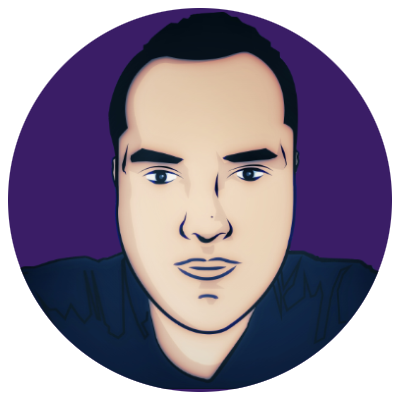
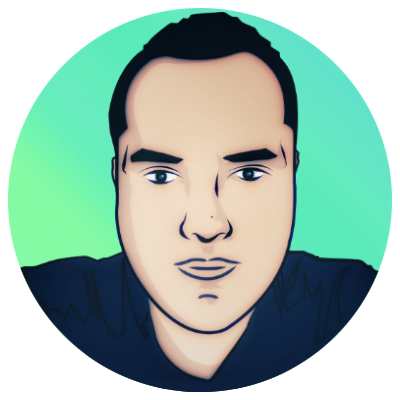
Updated styles

diff --git a/index.html b/index.html
@@ -1,1 +1,1 @@
-<!DOCTYPE html><html lang="en"><head> <meta charset="utf-8"/> <meta name="viewport" content="width=device-width, initial-scale=1"> <meta name="description" content="Scotty Rodríguez - Landing Page"> <meta name="author" content="Scotty Rodríguez"> <title>Scotty Rodríguez</title> <link rel="stylesheet" href="dependencies/fontawesome-free/5.8.1/css/all.min.css"> <link rel="stylesheet" href="dependencies/bootstrap/4.3.1/css/bootstrap.min.css"> <link rel="stylesheet" href="assets/styles/main.css"> <link rel="apple-touch-icon" sizes="180x180" href="favicon_io/apple-touch-icon.png"> <link rel="icon" type="image/png" sizes="32x32" href="favicon_io/favicon-32x32.png"> <link rel="icon" type="image/png" sizes="16x16" href="favicon_io/favicon-16x16.png"> <link rel="manifest" href="favicon_io/site.webmanifest"></head><body> <nav class="navbar navbar-expand-lg navbar-light"> <button class="navbar-toggler" type="button" data-toggle="collapse" data-target="#titleNavbar" aria-controls="titleNavbar" aria-expanded="false" aria-label="Toggle navigation"> <span class="navbar-toggler-icon"></span> </button> <div class="collapse navbar-collapse justify-content-md-center" id="titleNavbar"> <div class="navbar-header"> <a class="navbar-brand" href="#">Scotty Rodríguez</a></div><ul class="navbar-nav"> <li class="nav-item"> <a class="nav-link" href="https://www.linkedin.com/in/scottyrodriguez" rel="noopener" target="_blank"> <i class="fab fa-linkedin icon"></i> </a> </li><li class="nav-item"> <a class="nav-link" href="https://www.instagram.com/scotty_rod/" rel="noopener" target="_blank"> <i class="fab fa-instagram icon"></i> </a> </li><li class="nav-item"> <a class="nav-link" href="mailto:scottyru@gmail.com"> <i class="fas fa-at icon"></i> </a> </li><li class="nav-item"> <a class="nav-link" href="assets/files/Scotty Alexander_Rodríguez Umaña_CV_June_2019.PDF" rel="noopener" target="_blank"> <i>Download CV</i> </a> </li></ul> </div></nav> <hr> <div class="container-fluid intro-background"> <div class="row"> <div class="container"><img class="avatar" src="assets/imgs/avatar.png" alt="avatar"></div></div><div class="container"></div><div class="mx-auto intro"> <h1>Hello!</h1> <div class="container"> <h2> I'm Scotty! A Software Engineer based in Costa Rica with over 5 years of experience in .NET backend technologies and some light frontend work. Currently part of the data services team at PayByPhone.</h2></div></div></div><hr> <div class="mx-auto"> <div class="container pull-left"> <div class="row"> <div class="col-md-6"> <i class="fas fa-user-circle icon-body icon-margins"></i> <h4>about</h4> <p> Born in Costa Rica. <img src="assets/imgs/costa_rica_flag.png" alt=""> <br>Grew up in Ann Arbor, Michigan, U.S.A.. <br>Technology and science fiction are my interests. <br>Netflix, Guitar (sort of), Pizza.</p><br></div><div class="col-md-6"> <i class="fas fa-rocket icon-body icon-margins"></i> <h4>skills</h4> <div class="skills-chart"> Agile, Scrum, Kanban <br><div class="progress"> <div class="progress-bar" role="progressbar" style="width: 80%" aria-valuenow="80" aria-valuemin="0" aria-valuemax="100"></div></div>Test Driven Development (TDD), Automated Testing <br><div class="progress"> <div class="progress-bar" role="progressbar" style="width: 65%" aria-valuenow="65" aria-valuemin="0" aria-valuemax="100"></div></div>C#, .NET, SQL <br><div class="progress"> <div class="progress-bar" role="progressbar" style="width: 85%" aria-valuenow="80" aria-valuemin="0" aria-valuemax="100"></div></div>HTML5, CSS, Javascript <div class="progress"> <div class="progress-bar" role="progressbar" style="width: 70%" aria-valuenow="70" aria-valuemin="0" aria-valuemax="100"></div></div></div></div></div><div class="container"></div><div class="row"> <div class="col-md-6"> <i class="fas fa-briefcase icon-body icon-margins"></i> <h4>work</h4> <strong>PayByPhone Technologies Inc. — Data Engineer</strong> <br><i>June 2017 - Present</i> <br><p>Member of the 'Data & Insights' team. Working on SQL, reporting improvements, ad-hoc requests, reporting services and integrations.</p><strong>PayByPhone Technologies Inc. — Maintenance</strong> <br><i>March 2014 - June 2017</i> <br><p>Member of the 'Maintenance' team. Working on bug fixes, DevOps, and providing support for other teams in legacy systems.</p><br></div><div class="col-md-6"> <i class="fas fa-graduation-cap icon-body icon-margins"></i> <h4>education</h4> <strong>Licentiate Degree in Computer Engineering</strong> <br>Universidad Latina de Costa Rica. <br><i>2017 - 2019</i> <br><p>Pérez Zeledón, San José, Costa Rica.</p><strong>Bachelor's Degree in Computer Engineering</strong> <br>Universidad Latina de Costa Rica. <br><i>2006 - 2009</i> <br><p>Pérez Zeledón, San José, Costa Rica.</p></div></div><br></div></div><hr> <footer class="page-footer font-small text-muted"> <div class="footer-copyright text-center py-3">&copy; 2019 Designed by Scotty Rodríguez</div></footer> <script src="dependencies/jquery/3.3.1/jquery-3.3.1.min.js"></script> <script src="dependencies/popper/1.3.1/tooltip.min.js"></script> <script src="dependencies/bootstrap/4.3.1/js/bootstrap.min.js"></script></body></html>
+<!DOCTYPE html><html lang="en"><head> <meta charset="utf-8"/> <meta name="viewport" content="width=device-width, initial-scale=1"> <meta name="description" content="Scotty Rodríguez - Landing Page"> <meta name="author" content="Scotty Rodríguez"> <title>Scotty Rodríguez</title> <link rel="stylesheet" href="dependencies/fontawesome-free/5.8.1/css/all.min.css"> <link rel="stylesheet" href="dependencies/bootstrap/4.3.1/css/bootstrap.min.css"> <link rel="stylesheet" href="assets/styles/main.css"> <link rel="apple-touch-icon" sizes="180x180" href="favicon_io/apple-touch-icon.png"> <link rel="icon" type="image/png" sizes="32x32" href="favicon_io/favicon-32x32.png"> <link rel="icon" type="image/png" sizes="16x16" href="favicon_io/favicon-16x16.png"> <link rel="manifest" href="favicon_io/site.webmanifest"></head><body> <nav class="navbar navbar-expand-lg navbar-light"> <button class="navbar-toggler" type="button" data-toggle="collapse" data-target="#titleNavbar" aria-controls="titleNavbar" aria-expanded="false" aria-label="Toggle navigation"> <span class="navbar-toggler-icon"></span> </button> <div class="collapse navbar-collapse justify-content-md-center" id="titleNavbar"> <div class="navbar-header"> <a class="navbar-brand" href="#">Scotty Rodríguez</a></div><ul class="navbar-nav"> <li class="nav-item"> <a class="nav-link" href="https://www.linkedin.com/in/scottyrodriguez" rel="noopener" target="_blank"> <i class="fab fa-linkedin icon"></i> </a> </li><li class="nav-item"> <a class="nav-link" href="https://www.instagram.com/scotty_rod/" rel="noopener" target="_blank"> <i class="fab fa-instagram icon"></i> </a> </li><li class="nav-item"> <a class="nav-link" href="mailto:scottyru@gmail.com"> <i class="fas fa-at icon"></i> </a> </li><li class="nav-item"> <a class="nav-link" href="assets/files/Scotty Alexander_Rodríguez Umaña_CV_June_2019.PDF" rel="noopener" target="_blank"> <i>Download CV</i> </a> </li></ul> </div></nav> <hr> <div class="container-fluid intro-background"> <div class="row"> <div class="container"><img class="avatar" src="assets/imgs/avatar.png" alt="avatar"></div></div><div class="container"></div><div class="mx-auto intro"> <h1>Hello!</h1> <div class="container"> <h2> I'm Scotty! A Software Engineer based in Costa Rica with over 5 years of experience in .NET backend technologies and some light frontend work. Currently part of the data services team at PayByPhone.</h2></div></div></div><div class="mx-auto"> <div class="container pull-left"> <div class="row"> <div class="col-md-6"> <i class="fas fa-user-circle icon-body icon-margins"></i> <h4>about</h4> <p> Born in Costa Rica. <img src="assets/imgs/costa_rica_flag.png" alt=""> <br>Grew up in Ann Arbor, Michigan, U.S.A.. <br>Technology and science fiction are my interests. <br>Netflix, Guitar (sort of), Pizza.</p><br></div><div class="col-md-6"> <i class="fas fa-rocket icon-body icon-margins"></i> <h4>skills</h4> <div class="skills-chart"> Agile, Scrum, Kanban <br><div class="progress"> <div class="progress-bar" role="progressbar" style="width: 80%" aria-valuenow="80" aria-valuemin="0" aria-valuemax="100"></div></div>Test Driven Development (TDD), Automated Testing <br><div class="progress"> <div class="progress-bar" role="progressbar" style="width: 65%" aria-valuenow="65" aria-valuemin="0" aria-valuemax="100"></div></div>C#, .NET, SQL <br><div class="progress"> <div class="progress-bar" role="progressbar" style="width: 85%" aria-valuenow="80" aria-valuemin="0" aria-valuemax="100"></div></div>HTML5, CSS, Javascript <div class="progress"> <div class="progress-bar" role="progressbar" style="width: 70%" aria-valuenow="70" aria-valuemin="0" aria-valuemax="100"></div></div></div></div></div><div class="container"></div><div class="row"> <div class="col-md-6"> <i class="fas fa-briefcase icon-body icon-margins"></i> <h4>work</h4> <strong>PayByPhone Technologies Inc. — Data Engineer</strong> <br><i>June 2017 - Present</i> <br><p>Member of the 'Data & Insights' team. Working on SQL, reporting improvements, ad-hoc requests, reporting services and integrations.</p><strong>PayByPhone Technologies Inc. — Maintenance</strong> <br><i>March 2014 - June 2017</i> <br><p>Member of the 'Maintenance' team. Working on bug fixes, DevOps, and providing support for other teams in legacy systems.</p><br></div><div class="col-md-6"> <i class="fas fa-graduation-cap icon-body icon-margins"></i> <h4>education</h4> <strong>Licentiate Degree in Computer Engineering</strong> <br>Universidad Latina de Costa Rica. <br><i>2017 - 2019</i> <br><p>Pérez Zeledón, San José, Costa Rica.</p><strong>Bachelor's Degree in Computer Engineering</strong> <br>Universidad Latina de Costa Rica. <br><i>2006 - 2009</i> <br><p>Pérez Zeledón, San José, Costa Rica.</p></div></div><br></div></div><hr> <footer class="page-footer font-small text-muted"> <div class="footer-copyright text-center py-3">&copy; 2019 Designed by Scotty Rodríguez</div></footer> <script src="dependencies/jquery/3.3.1/jquery-3.3.1.min.js"></script> <script src="dependencies/popper/1.3.1/tooltip.min.js"></script> <script src="dependencies/bootstrap/4.3.1/js/bootstrap.min.js"></script></body></html>

diff --git a/assets/styles/main.css b/assets/styles/main.css
@@ -1,1 +1,1 @@
-@font-face{font-family:Oxygen;src:url(../fonts/Oxygen/Oxygen-Regular.ttf);font-display:fallback}html{min-height:100%;position:relative}body{background-color:#f4f4f8;font-family:Oxygen,sans-serif;font-size:1.35em;margin-bottom:60px;-moz-osx-font-smoothing:grayscale}h1{color:#5d6d7e;font-size:5.5em;font-weight:700}h2{font-weight:700;padding-bottom:2em}h4{color:#5d6d7e;font-size:2em;font-weight:700;padding-bottom:.25em;text-transform:capitalize}.avatar{height:200px;widows:200px}.container{padding-left:1.5em;padding-right:1.5em;padding-top:2.5em;text-align:center}.intro{color:#5d6d7e;font-weight:700;text-align:center}.pull-left{text-align:left}.icon{background:#aeb6bf;background-clip:border-box;display:initial;float:left;font-size:1.75em;-webkit-background-clip:text;-webkit-text-fill-color:transparent}.icon:hover{background:#34495e;background-clip:border-box;display:initial;float:left;font-size:1.75em;-webkit-background-clip:text;-webkit-text-fill-color:transparent}.icon-body{background:#5d6d7e;background-clip:border-box;display:initial;float:left;font-size:2em;-webkit-background-clip:text;-webkit-text-fill-color:transparent}.icon-body:hover{background:#aeb6bf;background-clip:border-box;display:initial;float:left;font-size:2em;-webkit-background-clip:text;-webkit-text-fill-color:transparent}.icon-margins{margin-right:.25em}.page-footer{font-size:.75em;position:absolute;text-align:center;width:100%}.navbar-brand{font-size:1em;text-align:center;height:50px;line-height:50px}.progress{height:35px}.progress-bar{background-color:#48c9b0}
+@font-face{font-family: Oxygen; src: url(../fonts/Oxygen/Oxygen-Regular.ttf); font-display: fallback}html{min-height: 100%; position: relative}body{color: #5d6d7e; background-color: #f4f4f8; font-family: Oxygen, sans-serif; font-size: 1.35em; margin-bottom: 60px; -moz-osx-font-smoothing: grayscale}h1{color: #5d6d7e; font-size: 5.5em}h2{padding-bottom: 2em}h4{color: #5d6d7e; font-size: 2em; font-weight: 700; padding-bottom: .25em; text-transform: capitalize}.avatar{height: 200px; widows: 200px}.container{padding-left: 1.5em; padding-right: 1.5em; padding-top: 2.5em; text-align: center}.intro{color: #5d6d7e; font-weight: 700; text-align: center}.pull-left{text-align: left}.icon{background: #aeb6bf; background-clip: border-box; display: initial; float: left; font-size: 1.65em; -webkit-background-clip: text; -webkit-text-fill-color: transparent}.icon:hover{background: #34495e; background-clip: border-box; display: initial; float: left; font-size: 1.65em; -webkit-background-clip: text; -webkit-text-fill-color: transparent}.icon-body{background: #5d6d7e; background-clip: border-box; display: initial; float: left; font-size: 2em; -webkit-background-clip: text; -webkit-text-fill-color: transparent}.icon-body:hover{background: #aeb6bf; background-clip: border-box; display: initial; float: left; font-size: 2em; -webkit-background-clip: text; -webkit-text-fill-color: transparent}.icon-margins{margin-right: .25em}.page-footer{font-size: .75em; position: absolute; text-align: center; width: 100%}.navbar-brand{font-size: 1em; text-align: center}.progress{height: 35px}.progress-bar{/*background-color: #68ecbe*/ /* Permalink - use to edit and share this gradient: https://colorzilla.com/gradient-editor/#62e2c9+1,86f9a4+100 */ background: #62e2c9; /* Old browsers */ background: -moz-linear-gradient(left, #62e2c9 1%, #86f9a4 100%); /* FF3.6-15 */ background: -webkit-linear-gradient(left, #62e2c9 1%,#86f9a4 100%); /* Chrome10-25,Safari5.1-6 */ background: linear-gradient(to right, #62e2c9 1%,#86f9a4 100%); /* W3C, IE10+, FF16+, Chrome26+, Opera12+, Safari7+ */ filter: progid:DXImageTransform.Microsoft.gradient( startColorstr='#62e2c9', endColorstr='#86f9a4',GradientType=1 ); /* IE6-9 */}
